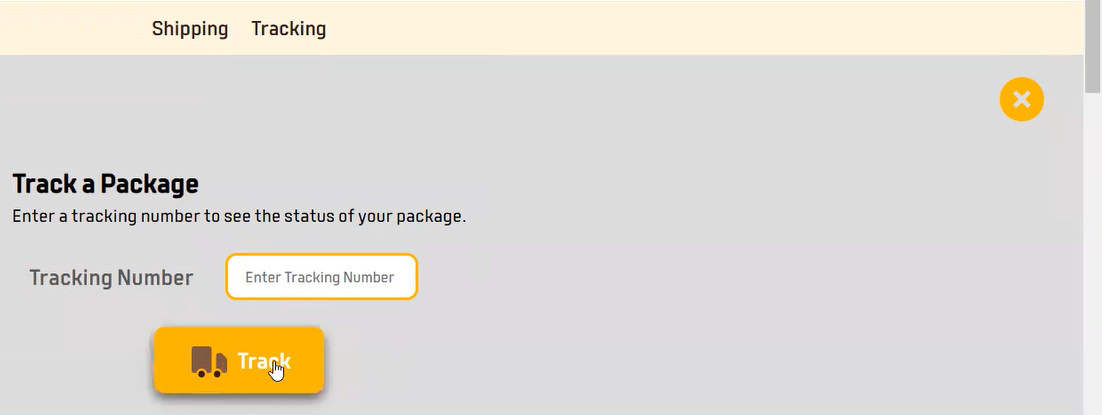
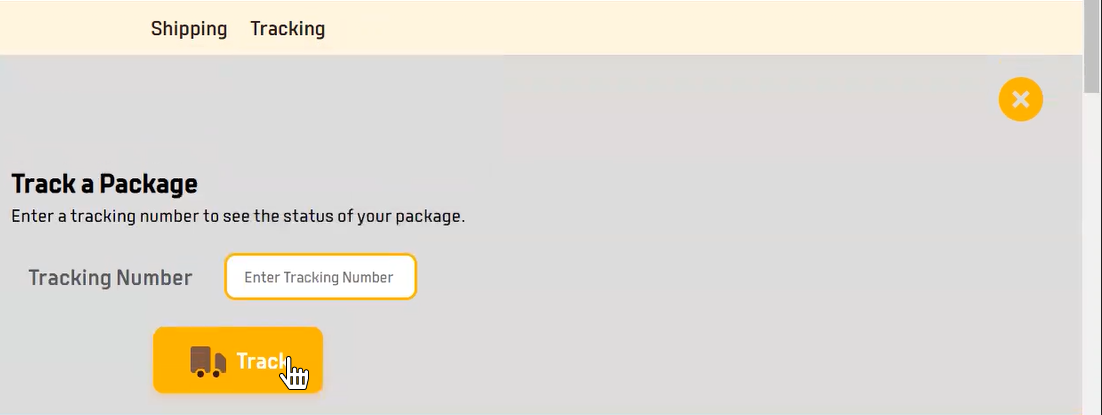
quick updates

diff --git a/final-build/index.html b/final-build/index.html
@@ -156,6 +156,31 @@
                         <li class="small-box-list-items">
                             Hover over categories of menu items
                         </li>
+                        <li class="small-box-list-items">
+                            Hover over close button of track a package box
+                        </li>
+                        <li class="small-box-list-items">
+                            Hover over close button of tracking results box
+                        </li>
+                        <li class="small-box-list-items">
+                            Hover over track button
+                        </li>
+                        <h3>Off-Hover</h3>
+                        <li class="small-box-list-items">
+                            Hover off menu items
+                        </li>
+                        <li class="small-box-list-items">
+                            Hover off categories of menu items
+                        </li>
+                        <li class="small-box-list-items">
+                            Hover off close button of track a package box
+                        </li>
+                        <li class="small-box-list-items">
+                            Hover off close button of tracking results box
+                        </li>
+                        <li class="small-box-list-items">
+                            Hover off track button
+                        </li>
                         <h3>On-Click</h3>
                         <li class="small-box-list-items">
                             Click on Track a package category of Tracking menu item to show track a package box
@@ -180,7 +205,7 @@
                     <h3>On-Hover</h3>
                     <ul class="small-box-items">
                         <li class="small-box-list-items">
-                            The pointer changes to a hand pointer
+                            The regular pointer changes to a hand pointer
                         </li>
                         <li class="small-box-list-items">
                             A yellow line animate under the menu items
@@ -192,13 +217,10 @@
                             If hover over to other menu items with one menu item category open, the dropdown menu closes
                         </li>
                         <li class="small-box-list-items">
-                            If hover over to categories of menu items, &#9660; down arrow animates from right and text animates to the left
+                            If hover over to categories of menu items, &#9660; down arrow animates and fades in from right and text moves to the left
                         </li>
                         <li class="small-box-list-items">
                             If you hover over category of menu items the color will change from grey color #595959 to black color: #000 
-                        </li>
-                        <li class="small-box-list-items">
-                            If you hover over track button box-shadow:0 5px 10px #595959 will appear 
                         </li>
                     </ul>
                     <h3>Off-Hover</h3>
@@ -207,10 +229,13 @@
                             Hand pointer changes to regular pointer
                         </li>
                         <li class="small-box-list-items">
-                            Yellow Line animates out and category box disappears
+                            Yellow Line disappears under the menu items and category box disappears
                         </li>
                         <li class="small-box-list-items">
-                            Box shadow:0 5px 10px #595959 disappears
+                            If you hover off category of menu items,  &#9660; down arrow animates and fades out to right and text moves to the right
+                        </li>
+                        <li class="small-box-list-items">
+                            If you hover off category of menu items the color will change from black color: #000 to grey color #595959
                         </li>
                     </ul>
                     <h3>On-Click</h3>
@@ -241,7 +266,7 @@
                     <h3>On-Hover</h3>
                     <ul class="small-box-items">
                         <li class="small-box-list-items">
-                            The pointer changes to a hand pointer
+                            The regular pointer changes to a hand pointer
                         </li>
                         <li class="small-box-list-items">
                             A yellow line animate under the menu items
@@ -253,13 +278,10 @@
                             If hover over to other menu items with one menu item category open, the dropdown menu closes
                         </li>
                         <li class="small-box-list-items">
-                            If hover over to categories of menu items, &#9660; down arrow animates from right and text animates to the left
+                            If hover over to categories of menu items, &#9660; down arrow animates and fades in from right and text moves to the left
                         </li>
                         <li class="small-box-list-items">
                             If you hover over category of menu items the color will change from grey color #595959 to black color: #000 
-                        </li>
-                        <li class="small-box-list-items">
-                            If you hover over track button box-shadow:0 5px 10px #595959 will appear 
                         </li>
                     </ul>
                     <h3>Off-Hover</h3>
@@ -268,10 +290,13 @@
                             Hand pointer changes to regular pointer
                         </li>
                         <li class="small-box-list-items">
-                            Yellow Line animates out and category box disappears
+                            Yellow Line disappears under the menu items and category box disappears
                         </li>
                         <li class="small-box-list-items">
-                            Box shadow:0 5px 10px #595959 disappears
+                            If you hover off category of menu items,  &#9660; down arrow animates and fades out to right and text moves to the right
+                        </li>
+                        <li class="small-box-list-items">
+                            If you hover off category of menu items the color will change from black color: #000 to grey color #595959
                         </li>
                     </ul>
                     <h3>On-Click</h3>
@@ -309,10 +334,7 @@
                             If you hover over category of menu items the color will change from grey color #595959 to black color: #000
                         </li>
                         <li class="small-box-list-items">
-                            If hover over to categories of menu items, &#9660; down arrow animates from right and text animates to the left
-                        </li>
-                        <li class="small-box-list-items">
-                            If you hover over track button box-shadow:0 5px 10px #595959 will appear
+                            If hover over to categories of menu items, &#9660; down arrow animates and fades in from right and text moves to the left
                         </li>
                     </ul>
                     <h3>On-Click</h3>

diff --git a/final/index.html b/final/index.html
@@ -156,6 +156,31 @@
                         <li class="small-box-list-items">
                             Hover over categories of menu items
                         </li>
+                        <li class="small-box-list-items">
+                            Hover over close button of track a package box
+                        </li>
+                        <li class="small-box-list-items">
+                            Hover over close button of tracking results box
+                        </li>
+                        <li class="small-box-list-items">
+                            Hover over track button
+                        </li>
+                        <h3>Off-Hover</h3>
+                        <li class="small-box-list-items">
+                            Hover off menu items
+                        </li>
+                        <li class="small-box-list-items">
+                            Hover off categories of menu items
+                        </li>
+                        <li class="small-box-list-items">
+                            Hover off close button of track a package box
+                        </li>
+                        <li class="small-box-list-items">
+                            Hover off close button of tracking results box
+                        </li>
+                        <li class="small-box-list-items">
+                            Hover off track button
+                        </li>
                         <h3>On-Click</h3>
                         <li class="small-box-list-items">
                             Click on Track a package category of Tracking menu item to show track a package box
@@ -180,7 +205,7 @@
                     <h3>On-Hover</h3>
                     <ul class="small-box-items">
                         <li class="small-box-list-items">
-                            The pointer changes to a hand pointer
+                            The regular pointer changes to a hand pointer
                         </li>
                         <li class="small-box-list-items">
                             A yellow line animate under the menu items
@@ -192,13 +217,10 @@
                             If hover over to other menu items with one menu item category open, the dropdown menu closes
                         </li>
                         <li class="small-box-list-items">
-                            If hover over to categories of menu items, &#9660; down arrow animates from right and text animates to the left
+                            If hover over to categories of menu items, &#9660; down arrow animates and fades in from right and text moves to the left
                         </li>
                         <li class="small-box-list-items">
                             If you hover over category of menu items the color will change from grey color #595959 to black color: #000 
-                        </li>
-                        <li class="small-box-list-items">
-                            If you hover over track button box-shadow:0 5px 10px #595959 will appear 
                         </li>
                     </ul>
                     <h3>Off-Hover</h3>
@@ -207,10 +229,13 @@
                             Hand pointer changes to regular pointer
                         </li>
                         <li class="small-box-list-items">
-                            Yellow Line animates out and category box disappears
+                            Yellow Line disappears under the menu items and category box disappears
                         </li>
                         <li class="small-box-list-items">
-                            Box shadow:0 5px 10px #595959 disappears
+                            If you hover off category of menu items,  &#9660; down arrow animates and fades out to right and text moves to the right
+                        </li>
+                        <li class="small-box-list-items">
+                            If you hover off category of menu items the color will change from black color: #000 to grey color #595959
                         </li>
                     </ul>
                     <h3>On-Click</h3>
@@ -241,7 +266,7 @@
                     <h3>On-Hover</h3>
                     <ul class="small-box-items">
                         <li class="small-box-list-items">
-                            The pointer changes to a hand pointer
+                            The regular pointer changes to a hand pointer
                         </li>
                         <li class="small-box-list-items">
                             A yellow line animate under the menu items
@@ -253,13 +278,10 @@
                             If hover over to other menu items with one menu item category open, the dropdown menu closes
                         </li>
                         <li class="small-box-list-items">
-                            If hover over to categories of menu items, &#9660; down arrow animates from right and text animates to the left
+                            If hover over to categories of menu items, &#9660; down arrow animates and fades in from right and text moves to the left
                         </li>
                         <li class="small-box-list-items">
                             If you hover over category of menu items the color will change from grey color #595959 to black color: #000 
-                        </li>
-                        <li class="small-box-list-items">
-                            If you hover over track button box-shadow:0 5px 10px #595959 will appear 
                         </li>
                     </ul>
                     <h3>Off-Hover</h3>
@@ -268,10 +290,13 @@
                             Hand pointer changes to regular pointer
                         </li>
                         <li class="small-box-list-items">
-                            Yellow Line animates out and category box disappears
+                            Yellow Line disappears under the menu items and category box disappears
                         </li>
                         <li class="small-box-list-items">
-                            Box shadow:0 5px 10px #595959 disappears
+                            If you hover off category of menu items,  &#9660; down arrow animates and fades out to right and text moves to the right
+                        </li>
+                        <li class="small-box-list-items">
+                            If you hover off category of menu items the color will change from black color: #000 to grey color #595959
                         </li>
                     </ul>
                     <h3>On-Click</h3>
@@ -309,10 +334,7 @@
                             If you hover over category of menu items the color will change from grey color #595959 to black color: #000
                         </li>
                         <li class="small-box-list-items">
-                            If hover over to categories of menu items, &#9660; down arrow animates from right and text animates to the left
-                        </li>
-                        <li class="small-box-list-items">
-                            If you hover over track button box-shadow:0 5px 10px #595959 will appear
+                            If hover over to categories of menu items, &#9660; down arrow animates and fades in from right and text moves to the left
                         </li>
                     </ul>
                     <h3>On-Click</h3>

diff --git a/final-build/tracking.css b/final-build/tracking.css
@@ -56,12 +56,12 @@
     /* display: flex;
     justify-content: space-between;
     align-items: center; */
-    padding-top: 20px;
+    /* padding-top: 20px; */
     font-family: 'tomkin-medium';
 }
 .container-left-top-text {
     margin: 0 auto;
-    padding-top: 5px;
+    padding-top: 10px;
     font-family: 'tomkin-regular';
 }
 .form-group {
@@ -71,7 +71,7 @@
     align-items: center;
     margin: 0 auto;
     padding: 0 15px;
-    padding-top: 20px;
+    padding-top: 10px;
 }
 .form-label {
     font-family: 'tomkin-medium';
@@ -123,19 +123,19 @@
 
 .container-tracking-show-heading {
     margin: 0 auto;
-    padding-top: 20px;
+    /* padding-top: 20px; */
     font-family: 'tomkin-medium';
 }
 
 .container-tracking-show-text {
     margin: 0 auto;
-    padding-top: 5px;
+    padding-top: 10px;
     font-family: 'tomkin-regular';
 }
 
 .container-tracking-show-text-location {
     margin: 0 auto;
-    padding-top: 5px;
+    padding: 10px 0 60px 0;
     font-family: 'tomkin-regular';
 }
 
@@ -166,7 +166,7 @@
     display: flex;
     justify-content: center;
     align-items: center;
-    margin: 20px auto;
+    margin: 20px auto 60px;
 }
 
 .track-truck-container{
@@ -177,9 +177,9 @@
     align-items:center;
     margin-right:5px;
 }
-.track-btn:hover {
+/* .track-btn:hover {
     box-shadow:0 5px 10px var(--grey-color);
-}
+} */
 
 /* .track-truck-container::before, .track-truck-container::after{
     content:"";
@@ -259,7 +259,7 @@
     justify-content: center;
     border: none;
     background-color: transparent;
-    padding: 20px;
+    padding: 20px 20px 0 20px;
 }
 .help-close-icon {
     max-width: 40px;
